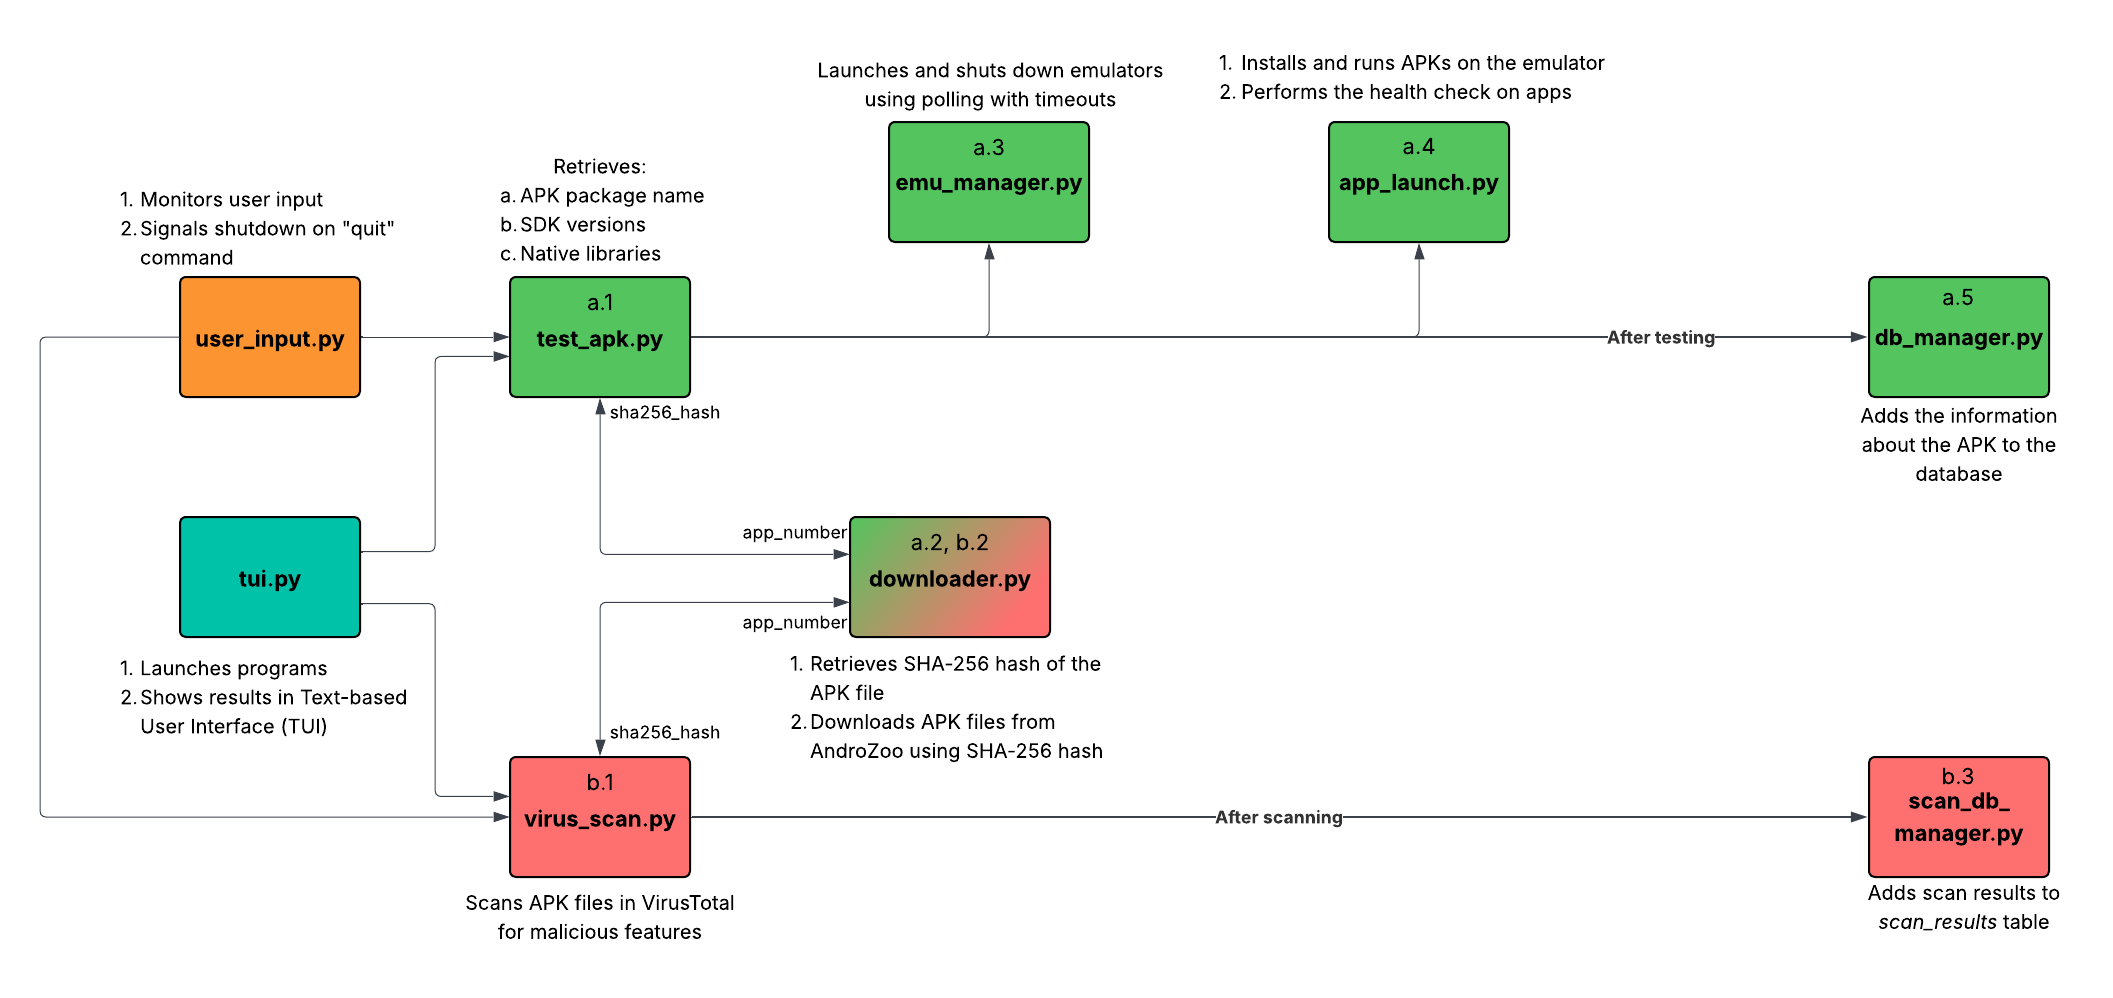
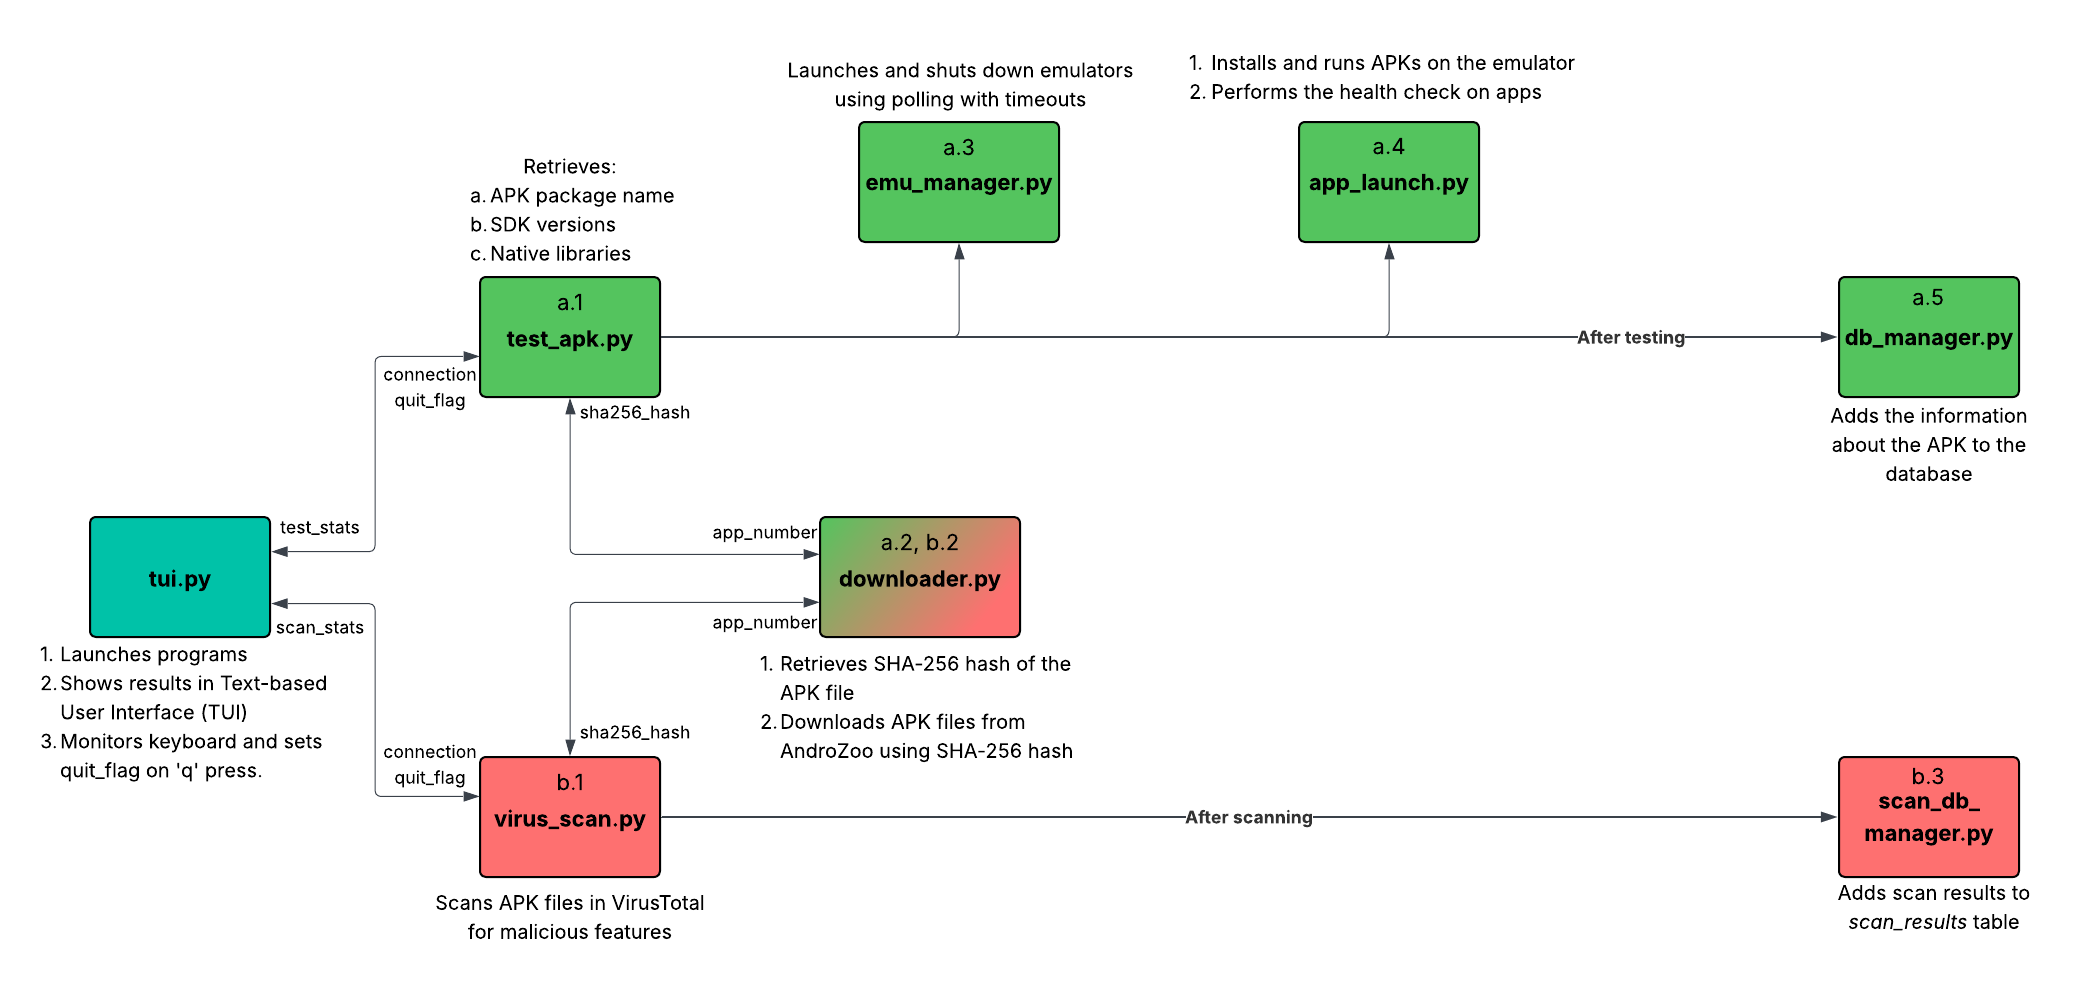
Program listens to keyboard input. When 'q' is pressed, processes stop their execution.
Status message below the table was added to inform user about acknowledging their command.

Diagram and README were updated.

diff --git a/tui.py b/tui.py
@@ -1,15 +1,30 @@
 from rich.live import Live
 from rich.table import Table
+from rich.console import Group
 from rich.columns import Columns
+from rich.text import Text
 
 import multiprocessing as mp
 import subprocess as sp
+import threading as th
 import os
 import sys
+import select
+import tty, termios
 from time import sleep
 from virus_scan import vs_main
 from test_apk import ta_main
 from config import COMMANDS_FILE, STATS_FILE
+
+def key_listener():
+    """
+    Listens for 'q' key input from keyboard.
+    """
+    while True:
+        if select.select([sys.stdin], [], [], 0.1)[0]:
+            key = sys.stdin.read(1)
+            if key == 'q':
+                user_triggered.set()
 
 def check_ssh():
     """
@@ -91,9 +106,15 @@ def tui(tui_at_conn, tui_vs_conn, test_stats, scan_stats):
     """
 
     finished = [False, False] # I - APK tester, II - Virus scanner
+    status_message = Text("Press 'q' on keyboard to quit early.", style = "bold cyan")
 
     with Live("", refresh_per_second = 2) as live:
         while finished[0] == False or finished[1] == False:
+            # 'q' key is pressed
+            if user_triggered.is_set():
+                quit_flag.value = True
+                status_message = Text("Quit request acknowledged. Waiting for programs to finish their current work...", style = "bold cyan")
+
             # APK Tester
             if not finished[0]:
                 if tui_at_conn.poll(0.5): # Checks for sent data
@@ -112,7 +133,11 @@ def tui(tui_at_conn, tui_vs_conn, test_stats, scan_stats):
 
                     scan_stats[key] = value # Updates scan stats
 
-            live.update(Columns([make_test_table(test_stats), make_scan_table(scan_stats)]))
+            # Updates status message when programs are finished
+            if finished[0] == True and finished[1] == True:
+                status_message = Text("Exited the programs.", style = "bold cyan")
+
+            live.update(Group(Columns([make_test_table(test_stats), make_scan_table(scan_stats)]), status_message))
             sleep(0.5)
     
     if "counter" in test_stats and "counter" in scan_stats: # If counters were added to stats
@@ -125,22 +150,29 @@ def tui(tui_at_conn, tui_vs_conn, test_stats, scan_stats):
 # ////////////////////////////////////
 
 if __name__ == "__main__":
-    # Launches user_input to allow the user to enter commands (like "quit")
-    sp.Popen(["gnome-terminal", "--geometry=80x20", "--", "python3", "user_input.py"])
-
     # Checks whether the SSH key is added to the agent
     check_ssh()
+
+    # Activates thread that listens to keyboard inputs
+    user_triggered = th.Event()
+    th.Thread(target = key_listener, daemon = True).start()
+
+    # Configures stdin to read single characters without having to press "Enter"
+    orig_settings = termios.tcgetattr(sys.stdin)
+    tty.setcbreak(sys.stdin)
 
     # Creates pipes between tui and its child processes
     tui_vs_conn, vs_conn = mp.Pipe()
     tui_at_conn, at_conn = mp.Pipe()
+    quit_flag = mp.Value('b', False)
     
     # Creates the child processes and starts them
-    vs = mp.Process(target = vs_main, args = (vs_conn,))
-    ta = mp.Process(target = ta_main, args = (at_conn,))
+    vs = mp.Process(target = vs_main, args = (vs_conn, quit_flag))
+    ta = mp.Process(target = ta_main, args = (at_conn, quit_flag))
     vs.start()
     ta.start()
 
+    # Initializes stats
     test_stats, scan_stats = init_stats()
 
     # TUI 
@@ -149,3 +181,6 @@ if __name__ == "__main__":
     # Removes the temporary file for user commands
     if os.path.exists(COMMANDS_FILE):
         os.remove(COMMANDS_FILE)
+
+    # Restores original settings for stdin
+    termios.tcsetattr(sys.stdin, termios.TCSADRAIN, orig_settings)

diff --git a/virus_scan.py b/virus_scan.py
@@ -111,27 +111,12 @@ def get_label(positives: int) -> str:
     else:
         return "MALICIOUS"
 
-def quit_requested() -> bool:
-    """
-    Checks if the file contains "quit" command from the user.
-
-    Returns:
-        Bool:
-            - **True:** If the file contains "quit" command.
-            - **False:** If the file contains something else or doesn't exist.
-    """
-    try:
-        with open(COMMANDS_FILE, "r") as f:
-            return f.read().strip().lower() == "quit"
-    except FileNotFoundError:
-        return False
-
 # ////////////////////////////////////
 # /////////////// MAIN ///////////////
 # ////////////////////////////////////
 connection = None
 
-def vs_main(conn):
+def vs_main(conn, quit_flag: bool):
     # Making the connection global to all functions
     global connection
     connection = conn
@@ -147,8 +132,8 @@ def vs_main(conn):
 
     while stats["app_number"] <= MAX_APK_NB_VS:
         try:
-            # Checks if the user requested manual shutdown
-            if quit_requested():
+            # Checks if the quit flag is triggered
+            if quit_flag.value == True:
                 connection.send(("current", "Exited early due to user request."))
                 connection.send(("counter", stats["app_number"])) # Sends the stats["app_number"] to save it
                 break

diff --git a/test_apk.py b/test_apk.py
@@ -82,27 +82,12 @@ def get_native_libs(apk_path: str) -> list[str] | list:
 
     return ["ERROR"]
 
-def quit_requested() -> bool:
-    """
-    Checks if the file contains "quit" command from the user.
-
-    Returns:
-        Bool:
-            - **True:** If the file contains "quit" command.
-            - **False:** If the file contains something else or doesn't exist.
-    """
-    try:
-        with open(COMMANDS_FILE, "r") as f:
-            return f.read().strip().lower() == "quit"
-    except FileNotFoundError:
-        return False
-
 # ////////////////////////////////////
 # /////////////// MAIN ///////////////
 # ////////////////////////////////////
 connection = None
 
-def ta_main(conn):
+def ta_main(conn, quit_flag: bool):
     # Making the connection global to all functions
     global connection
     connection = conn
@@ -117,8 +102,8 @@ def ta_main(conn):
 
     while stats["app_number"] <= MAX_APK_NB:
         try:
-            # Checks if the user requested manual shutdown
-            if quit_requested():
+            # Checks if the quit flag is triggered
+            if quit_flag.value == True:
                 connection.send(("current", "Exited early due to user request."))
                 connection.send(("counter", stats["app_number"])) # Sends the "app_number" to save it in a 
                 break

diff --git a/readme.md b/readme.md
@@ -7,17 +7,15 @@ Current status and the statistics of the program are shown in a TUI (Text-based 
 
 # Commands
 - Execution: `make run`
-- Adding SSH key (for current terminal session): `make ssh`
+- Adding SSH key (for current session): `make ssh`
 - Cleaning generated files: `make clean`
-- View the database using SQLite Browser: `make db`
+- Viewing the database using SQLite Browser: `make db`
 
 # Files
-There are 10 python files:
+There are 9 python files:
 - **config.py**: Extracts global variables and configuration variables from `config.ini`.
 
-- **tui.py:** Entry point of the program. It launches **APK Tester** and **Virus Scanner** and shows their current status as well as their statistics in a TUI (Text-based User Interface).
-
-- **user_input.py:** Monitors user input in a separate terminal. If the user writes *"quit"*, it writes the command in a file. As all files constantly check the file for commands, they will shutdown if they detect the *"quit"* command.
+- **tui.py:** Entry point of the program. It launches **APK Tester** and **Virus Scanner** and shows their current status as well as their statistics in a TUI (Text-based User Interface). It also listens to keyboard inputs. When the user presses 'q' key, it updates the global *quit_flag* and processes terminate their work early. When terminated early, their stats are saved in `stats.txt` file. This allows them to resume from where they left during the next launch.
 
 - **test_apk.py:** Downloads an APK file using `downloader.py`, launches emulator with `emu_manager.py`, runs and verifies the app on the emulator with `app_launch.py`, and updates the database with `db_manager.py` for every downloaded APK.
 - **downloader.py**: Downloads APK files from Androzoo using the SHA-256 hash from `latest.csv`.
